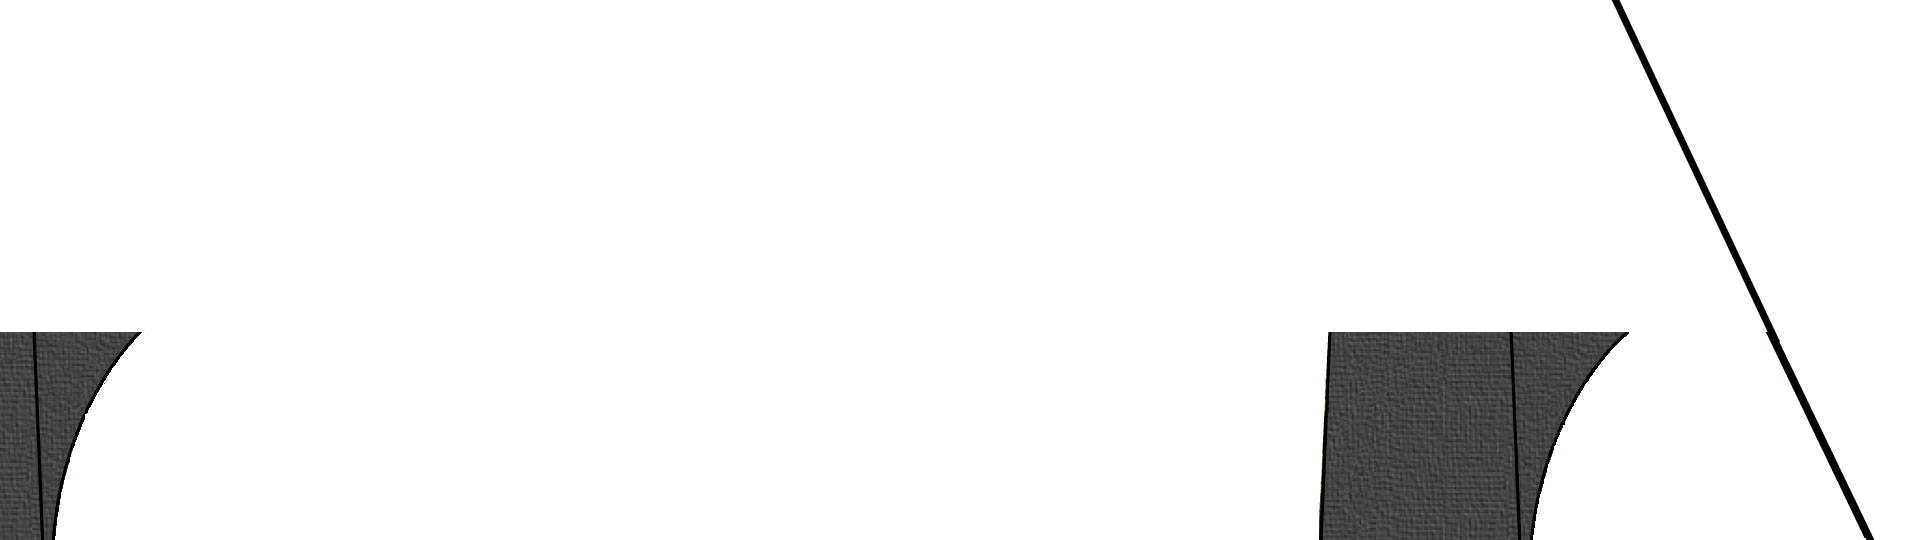
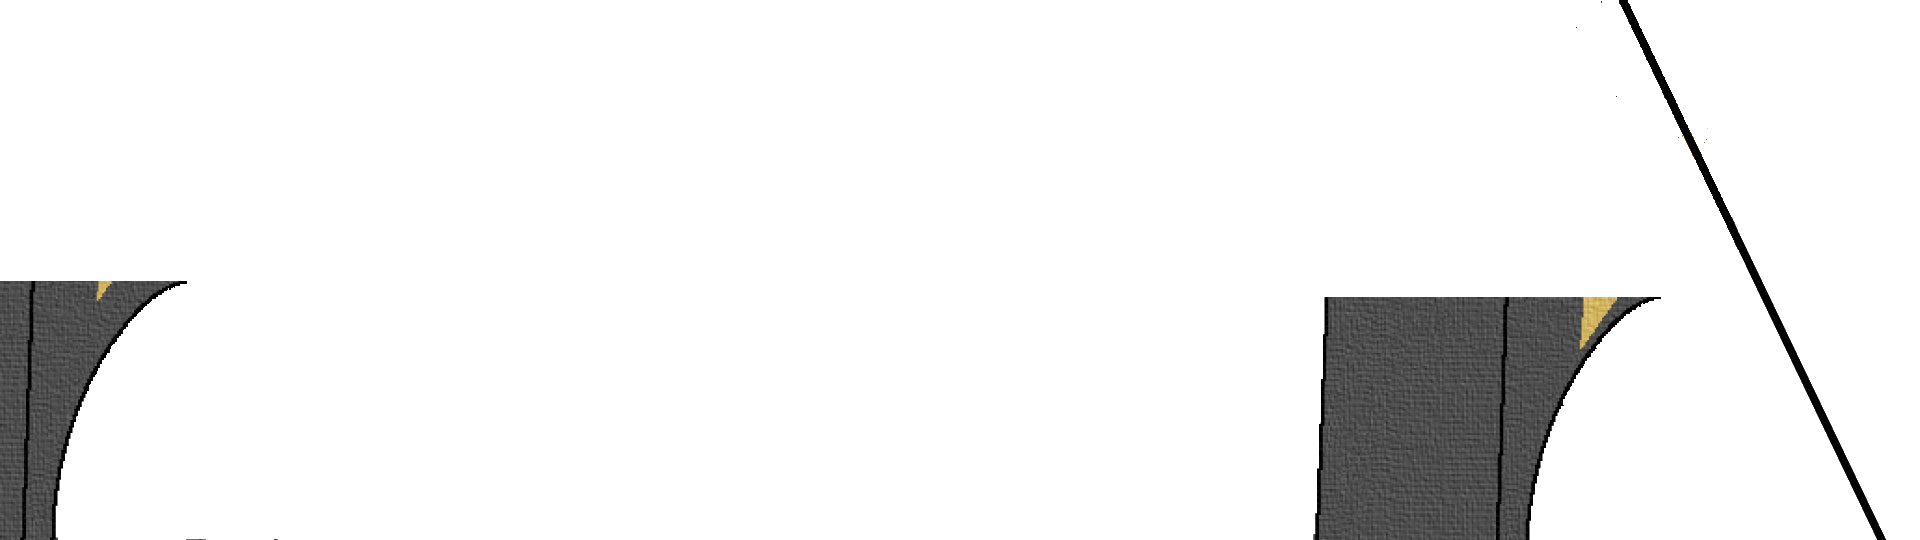
kongos all games

diff --git a/core/src/com/gamefactoryx/cheers/view/kongosdrink/KongosDrinkMainScreen.java b/core/src/com/gamefactoryx/cheers/view/kongosdrink/KongosDrinkMainScreen.java
@@ -454,7 +454,7 @@ public class KongosDrinkMainScreen implements Screen/*extends AbstractScreen*/ {
             case FIFTY:
                 foregroundTexture = new Texture[]{null,
                         null,
-                        new Texture(Gdx.files.internal("common/kongos_drink/game_design/50/50.3.1.jpg")),
+                        new Texture(Gdx.files.internal("common/kongos_drink/game_design/50/50.3.1.png")),
                         new Texture(Gdx.files.internal("common/kongos_drink/game_design/50/50.4.1.png")),
                         new Texture(Gdx.files.internal("common/kongos_drink/game_design/50/50.5.1.png")),
                         null,
@@ -463,6 +463,15 @@ public class KongosDrinkMainScreen implements Screen/*extends AbstractScreen*/ {
                         null,
                         null};
             case FORTY:
+                foregroundTexture = new Texture[]{null,
+                        null,
+                        new Texture(Gdx.files.internal("common/kongos_drink/game_design/40/40.3.1.png")),
+                        new Texture(Gdx.files.internal("common/kongos_drink/game_design/40/40.4.1.png")),
+                        new Texture(Gdx.files.internal("common/kongos_drink/game_design/40/40.5.1.png")),
+                        null,
+                        null,
+                        null,
+                        null};
             case THRITY:
             case TWENTY:
             case TEN:

diff --git a/core/src/com/gamefactoryx/cheers/controller/kongosdrink/KongosDrinkMainController.java b/core/src/com/gamefactoryx/cheers/controller/kongosdrink/KongosDrinkMainController.java
@@ -240,9 +240,10 @@ final public class KongosDrinkMainController extends KongosDrinkAbstractControll
             KongosDrinkMainModel.getInstance().getActiveCard().setText(KongosDrinkMainModel.getInstance().getActiveCard().getOriginText());
             KongosDrinkMainModel.getInstance().setActiveCard(null);
             if (point != 0) {
-                movePlayer(KongosDrinkMainModel.getInstance().getPlayerIndex(),
-                        Math.min(Configuration.getPlayers().get(KongosDrinkMainModel.getInstance().getPlayerIndex()).getPosition() +
-                                point, Configuration.getGameSize().getValue() + 1));
+                int nextPoint = Configuration.getPlayers().get(KongosDrinkMainModel.getInstance().getPlayerIndex()).getPosition() +
+                        point;
+                if(nextPoint >= Configuration.getGameSize().getValue()) nextPoint = Configuration.getGameSize().getValue() + 3;
+                movePlayer(KongosDrinkMainModel.getInstance().getPlayerIndex(), nextPoint);
             }
             else {
                 setNextPlayerActive();

diff --git a/core/src/com/gamefactoryx/cheers/tool/kongosdrink/Configuration.java b/core/src/com/gamefactoryx/cheers/tool/kongosdrink/Configuration.java
@@ -45,7 +45,7 @@ public class Configuration {
     }
 
 
-    private static GameSizeEnum gameSize = GameSizeEnum.THRITY;
+    private static GameSizeEnum gameSize = GameSizeEnum.FORTY;
     private static boolean penalty;
     private static int sound;
     private static final List<Player> players = new ArrayList<>();
